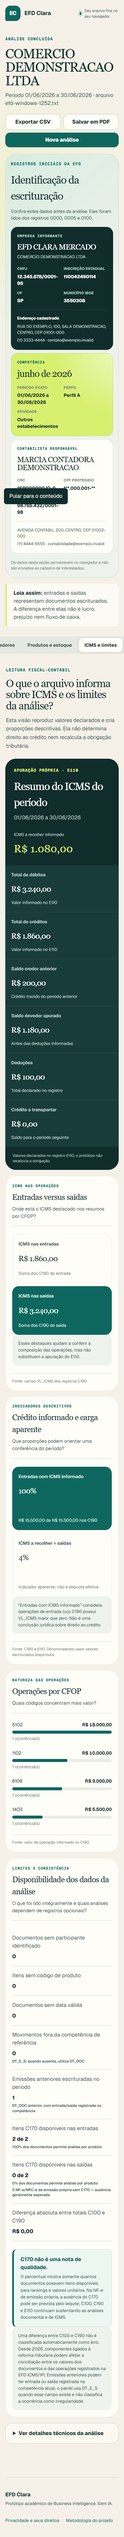
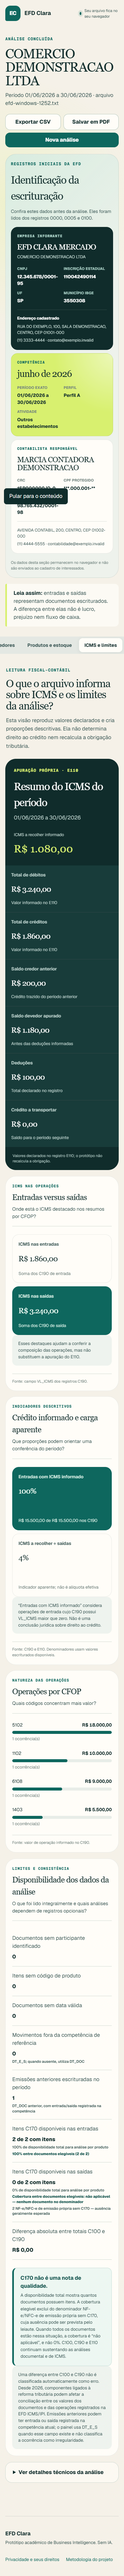
Registra validacao da cobertura elegivel

Changed region(s): [[0.0293, 0.0, 0.968, 0.9649]]

diff --git a/docs/evidencias/README.md b/docs/evidencias/README.md
@@ -4,8 +4,8 @@
 
 - **URL:** https://efd-clara.vercel.app
 - **Data:** 30/07/2026
-- **Commit validado:** `2e4ddfa`
-- **Deploy Vercel:** `dpl_AxrHyS3y2EY1UKUqkM4EebYH1T4v`
+- **Commit validado:** `24c015f`
+- **Deploy Vercel:** `dpl_EuKCLhn66itVbyhmsAMD2q1pHQ63`
 - **Plano da aplicação:** Hobby
 - **Plano do banco:** Neon `free_v3`
 
@@ -34,6 +34,8 @@
 - mensagem explícita de que C170 não é uma nota de qualidade;
 - recusa preventiva de EFD-Contribuições antes de interpretar razão social, competência
   e documentos;
+- disponibilidade total e cobertura elegível do C170 exibidas separadamente;
+- denominador elegível igual a zero apresentado como `não aplicável`;
 - exportação CSV;
 - botão de nova análise e remoção do painel anterior;
 - viewport desktop;
@@ -76,6 +78,6 @@ As capturas marcadas como produção foram geradas pelo teste E2E contra
 `https://efd-clara.vercel.app`. As capturas locais registram a etapa anterior e permitem
 comparar o mesmo artefato antes e depois da publicação.
 
-Os oito cadastros sintéticos encontrados nas rodadas local e pública desta evolução foram
-excluídos ao final. Nenhum
+Todos os cadastros sintéticos encontrados nas rodadas locais e públicas foram excluídos
+ao final. Nenhum
 dado de usuário real foi removido, e a consulta final retornou zero cadastros de teste.

diff --git a/docs/15-relatorio-de-deploy.md b/docs/15-relatorio-de-deploy.md
@@ -53,8 +53,8 @@ foi cadastrado por esta execução.
 ## Publicação validada
 
 - **URL de produção:** https://efd-clara.vercel.app
-- **Deploy:** `dpl_AxrHyS3y2EY1UKUqkM4EebYH1T4v`
-- **Commit:** `2e4ddfa`
+- **Deploy:** `dpl_EuKCLhn66itVbyhmsAMD2q1pHQ63`
+- **Commit:** `24c015f`
 - **Status:** Ready
 - **Testes públicos:** 3 E2E aprovados
 - **Desktop:** aprovado
@@ -69,6 +69,8 @@ foi cadastrado por esta execução.
   produto, sem reduzir uma nota de qualidade
 - **Módulo SPED:** EFD-Contribuições recusada antes da leitura dos campos e EFD ICMS/IPI
   válida processada na sequência
+- **C170:** disponibilidade total preservada, cobertura elegível calculada separadamente
+  e denominador zero apresentado como `não aplicável`
 - **Inspeção de rede:** nenhum registro fiscal em corpos enviados
 - **Erros de runtime na última hora:** nenhum agrupamento encontrado
 - **Erros ou falhas fatais no novo deploy:** nenhum log encontrado
